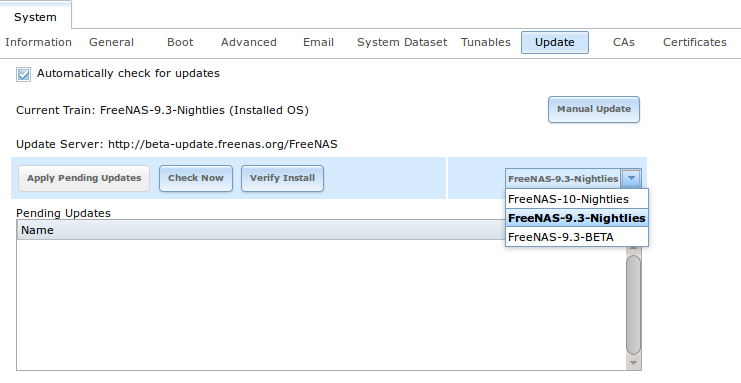
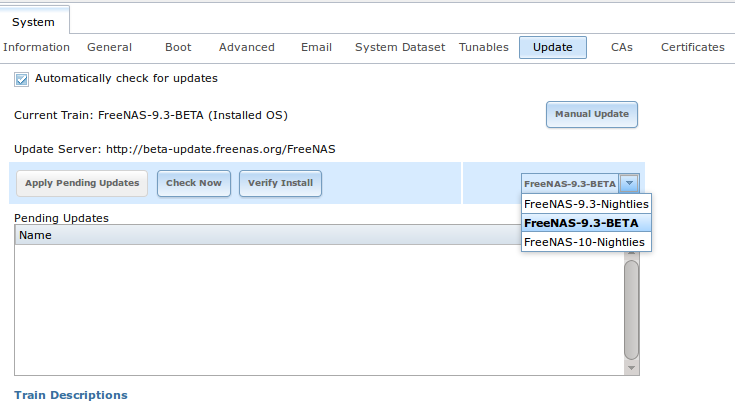
Update update screen to show new trains description.

diff --git a/docs/userguide/freenas_install.rst b/docs/userguide/freenas_install.rst
@@ -157,12 +157,8 @@ This section will demonstrate how to use
 to burn the :file:`.iso` file. When downloading Win32DiskImager, download the latest version that ends in :file:`-binary.zip` and use 7-Zip to unzip its
 executable.
 
-Once installed, launch Win32DiskImager, shown in Figure 2.2a. Use the "browse" button to browse to the location of the :file:`.iso` file. Insert a USB thumb
-drive and select its drive letter from the "Device" drop-down menu. Click the "Write" button and the image will be written to the USB thumb drive.
-
-**Figure 2.2a: Using Win32DiskImager to Write the Image**
-
-|Figure24b_png|
+Once installed, launch Win32DiskImager and use its "browse" button to browse to the location of the :file:`.iso` file. Insert a USB thumb drive and select its
+drive letter from the "Device" drop-down menu. Click the "Write" button and the image will be written to the USB thumb drive.
 
 .. _Performing the Installation:
 
@@ -458,7 +454,7 @@ In the screen shown in Figure 2.5e, use the drop-down menu to select which "Trai
 In this example, this system has the option to track *FreeNAS-10-Nightlies* (the upcoming 10.0 release),
 *FreeNAS-9.3-Nightlies* which represents the latest nightly build of the upcoming 9.3 release, and
 *FreeNAS-9.3-BETA* which includes all new features, drivers, and bug fixes since 9.3-BETA was released. The administrator has selected to track the
-*FreeNAS-9.3-Nightlies*.
+*FreeNAS-9.3-Nightlies*. Click the hyperlink for "Train Descriptions" to read a brief description of each train.
 
 To see if any updates are available, click the "Check Now" button. If any updates are available, they will be listed in a pop-up screen. Either click the "OK"
 button to apply the listed updates or the "Cancel" button to exit the screen containing the listing. 
